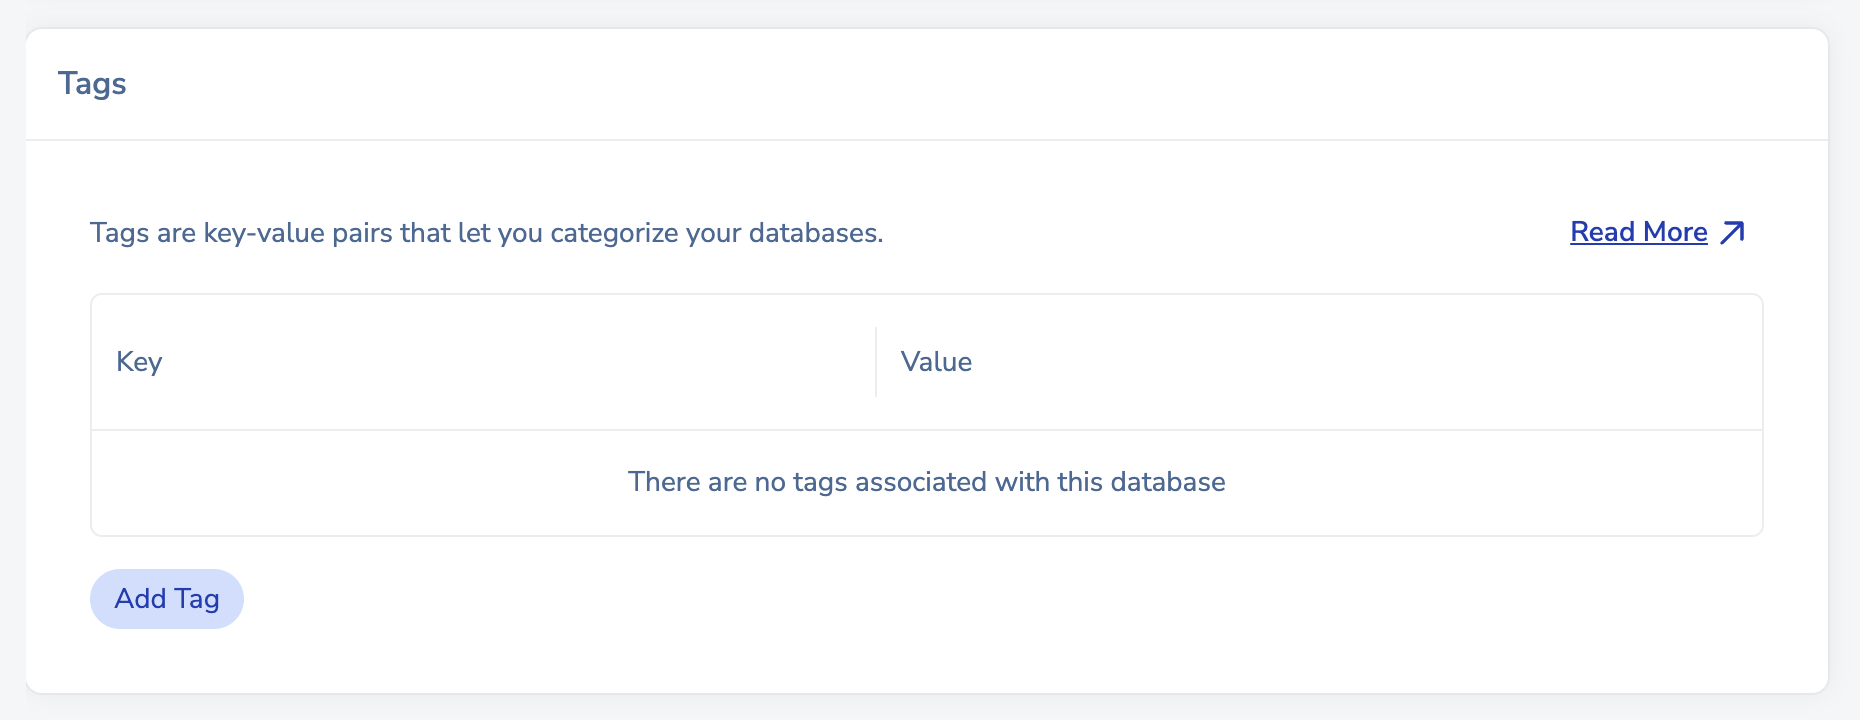
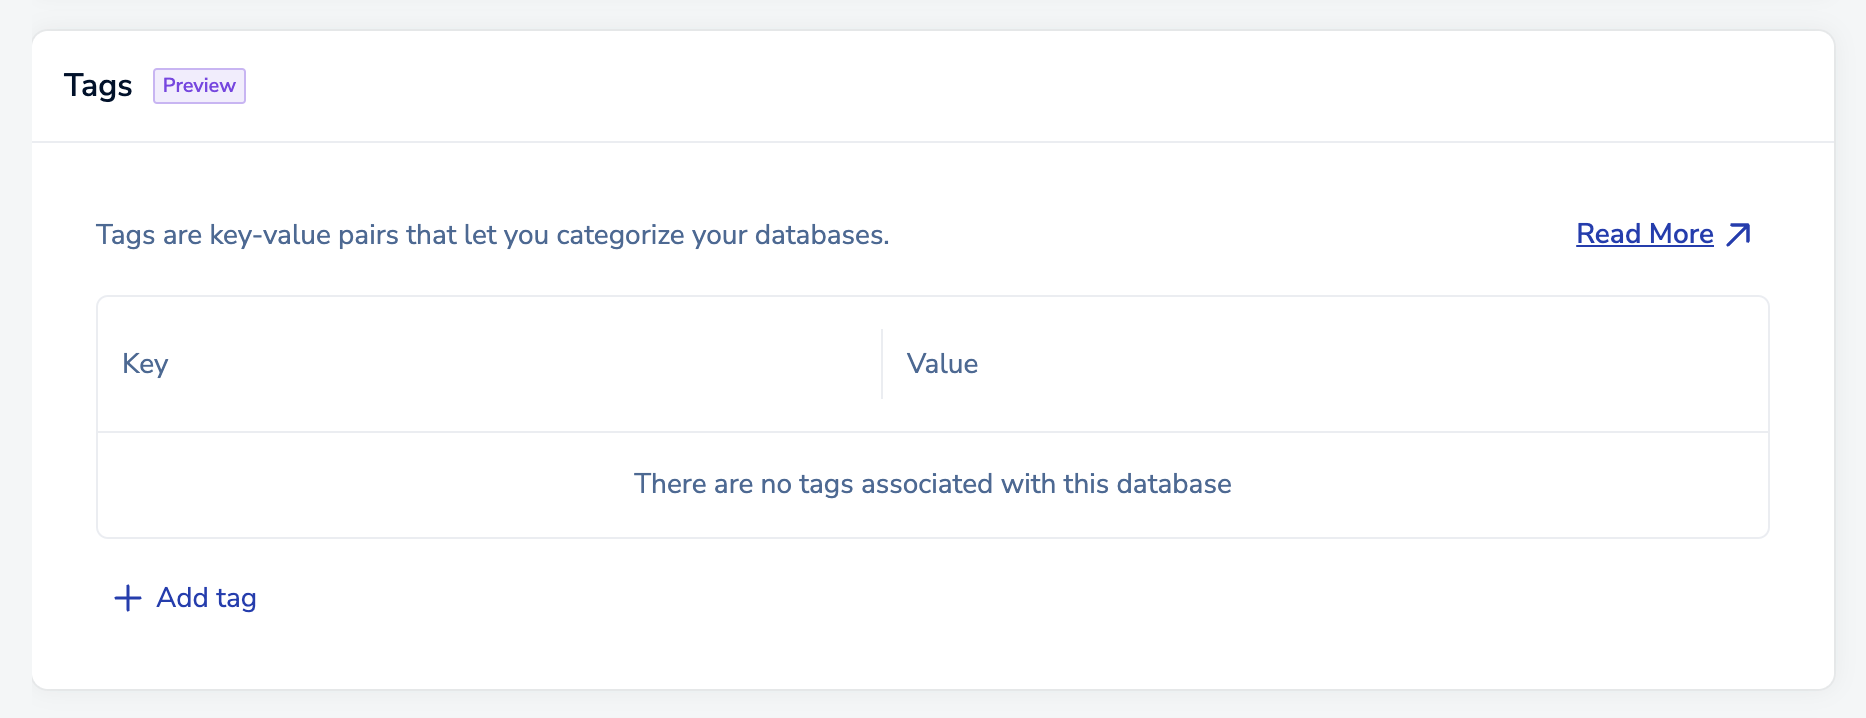
Databases section

diff --git a/content/embeds/rc-tags-tag-module.md b/content/embeds/rc-tags-tag-module.md
@@ -1,19 +1,19 @@
-Here, you can:
+You can select the tag's **Key** and **Value** from the suggestions, or you can enter your own.
 
-- Select **Add tag** to add a tag.
+{{<image filename="images/rc/tags-new-tag.png" alt="The New tag fields." >}}{{< /image >}}
 
-    {{<image filename="images/rc/tags-button-add-tag.png" alt="The Add tag button." width=100px >}}{{< /image >}}
+A valid tag must follow these guidelines:
+- Tag keys must be between 2 and 64 characters long, and values must be at least 2 characters long.
+- Tags can only have lowercase letters, numbers, spaces, and these special characters: `-`, `_`, `.`, `+`, `@`, and `:`.
 
-    {{<image filename="images/rc/tags-new-tag.png" alt="The New tag fields." >}}{{< /image >}}
-
-    You can select the tag's **Key** and **Value** from the suggestions, or you can enter your own.
-
-    A valid tag must follow these guidelines:
-    - Tag keys must be between 2 and 64 characters long, and values must be at least 2 characters long.
-    - Tags can only have lowercase letters, numbers, spaces, and these special characters: `-`, `_`, `.`, `+`, `@`, and `:`. 
+After you add your first tag, you can:
 
 - Select the **Key** or **Value** field of an existing tag and enter new text to edit it.
 
 - Select **Delete** next to a tag to delete it.
 
     {{<image filename="images/rc/tags-icon-delete.png" alt="Delete button." >}}{{< /image >}}
+
+- Select **Add additional tag** to add another tag.
+
+    {{<image filename="images/rc/tags-button-add-additional-tag.png" alt="The Add additional tag button." >}}{{< /image >}}

diff --git a/content/rc/databases/back-up-data.md b/content/rc/databases/back-up-data.md
@@ -35,17 +35,13 @@ Here, you'll learn how to store backups using different cloud providers.
 
 To turn on database backups:
 
-1. Sign in to the [Redis Cloud console](https://app.redislabs.com/).  (Create an account if you don't already have one.)
+1. Sign in to the [Redis Cloud console](https://app.redislabs.com/). 
 
-2. If you have more than one subscription, select the target subscription from the list.  This displays the **Databases** tab for the selected subscription.
-
-    {{<image filename="images/rc/subscription-flexible-databases-tab-pending.png" alt="The Databases tab summarizes databases created for a given subscription." >}}{{< /image >}}
-
-3.  Select the database to open the **Database** page and then select **Edit database**.
+1.  Select the database to open the **Database** page and then select **Edit database**.
 
     {{<image filename="images/rc/database-details-configuration-tab-general-flexible.png" alt="The Configuration tab of the Database details screen." >}}{{< /image >}}
 
-4.  In the **Durability** section of the **Configuration** tab, locate the **Remote backup** setting:
+1.  In the **Durability** section of the **Configuration** tab, locate the **Remote backup** setting:
 
     {{<image filename="images/rc/database-details-configuration-tab-durability-flexible.png" alt="The Remote backup setting is located in the Durability section of the Configuration tab of the database details screen." >}}{{< /image >}}
 

diff --git a/content/rc/databases/migrate-databases.md b/content/rc/databases/migrate-databases.md
@@ -111,9 +111,9 @@ Follow these detailed steps to migrate data using Active-Passive syncing:
 
 7. Select **Save Active-Passive** to save your Active-Passive settings.
 
-    {{<image filename="images/rc/icon-database-save-active-passive.png" alt="The **Save** button verifies the Source URI and you can't save until it validates." >}}{{< /image >}}
+    {{<image filename="images/rc/icon-database-save-active-passive.png" alt="The **Save** button verifies the Source URI and you can't save until it validates." width="200px">}}{{< /image >}}
 
-    For an external database, Redis will verify the endpoint at this step. If the endpoint cannot be verified, make sure that you've copied the details directly from the source database and that the value you entered starts with `redis://`.
+    For an external database, we'll verify the endpoint at this step. If the endpoint can't be verified, make sure that you've copied the details directly from the source database and that the value you entered starts with `redis://`.
 
 8.  Select **Save Database** to begin updating the database.
 

diff --git a/content/rc/databases/configuration/high-availability.md b/content/rc/databases/configuration/high-availability.md
@@ -29,7 +29,7 @@ Redis Cloud supports three levels of replication:
 
 Your replication options depend on your [subscription plan]({{<relref "/rc/subscriptions/_index.md">}}):
 
-- Free Redis Cloud Essentials plans support No replication and single-zone replication.
+- Free Redis Cloud Essentials plans do not support replication.
 - Paid Redis Cloud Essentials plans and Redis Cloud Pro plans let you choose between multi-zone or single-zone replication when creating a subscription. You can also turn off replication.
 
 After database creation, you can still enable or turn off replication.  However, [zone settings]({{<relref "/rc/databases/configuration/high-availability#zone-setting-maintenance">}}) are only configurable during database creation.  

diff --git a/content/rc/databases/import-data.md b/content/rc/databases/import-data.md
@@ -208,7 +208,10 @@ To import an RDB file stored in a Microsoft Azure Blog storage container:
 1. In the **Danger Zone**, select **Import**.
 1. Enter the details for the RDB file:
     - Source type - Select **Azure Blob Storage**.
-    - Source path - Enter the URL for the RDB file: `abs://:storage_account_access_key@storage_account_name/[container/]filename.rdb[.gz]`
+    - Source path - Enter the URL for the RDB file:
+        ```text
+        abs://:storage_account_access_key@storage_account_name/[container/]filename.rdb[.gz]     
+        ```
 
         Where:
         - `storage_account_access_key` - Primary access key to the storage account

diff --git a/content/rc/databases/create-database/create-pro-database-existing.md b/content/rc/databases/create-database/create-pro-database-existing.md
@@ -81,6 +81,10 @@ The **Tags** section lets you add [tags]({{< relref "/rc/databases/tag-database"
 
 {{<image filename="images/rc/database-new-tags.png" alt="Use the Tag settings to add tags to the database." >}}{{< /image >}}
 
+Select **Add tag** to add a tag.
+
+{{<image filename="images/rc/tags-button-add-tag.png" alt="The Add tag button." width=100px >}}{{< /image >}}
+
 {{< embed-md "rc-tags-tag-module.md" >}}
 
 ## Security section
